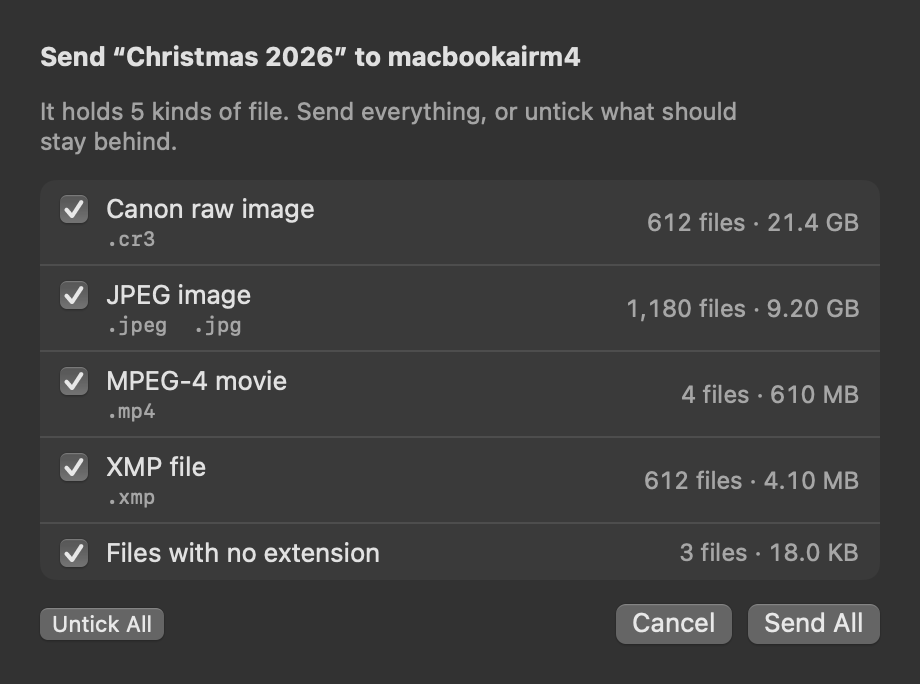
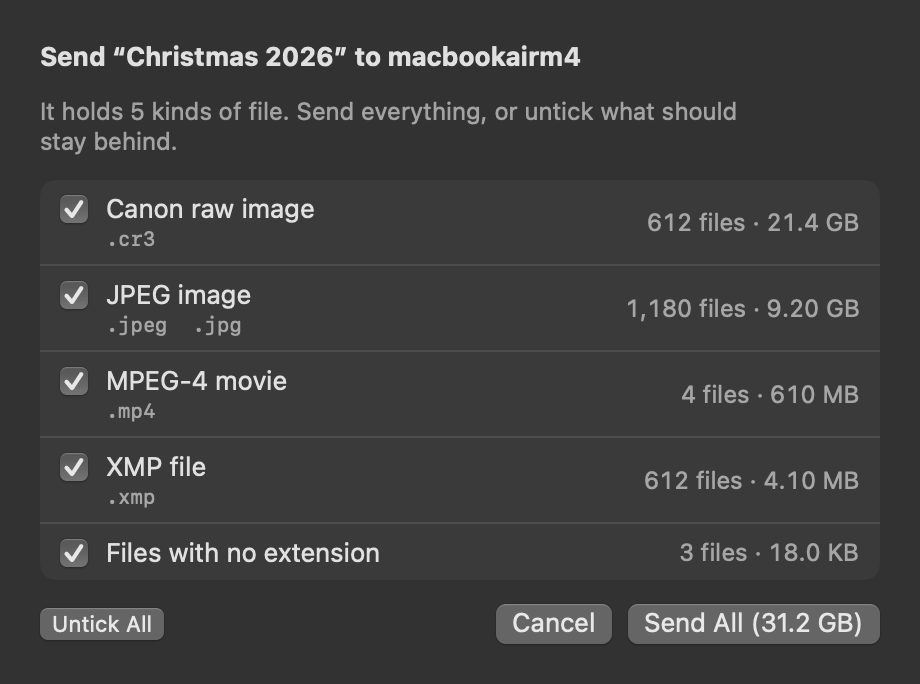
Settings get a window of their own; the Send button always says how much
Connections, Open at login, updates and the version move off the main window
into Settings (Cmd-comma, the app menu, the right-click menu). The kinds-of-file
sheet's button reads 'Send All (31.2 GB)' as well as 'Send 1,180 files (9.20 GB)'.

Changed region(s): [[0.5174, 0.8596, 0.9435, 0.9518]]

diff --git a/Sources/NimbusDrop/SettingsWindow.swift b/Sources/NimbusDrop/SettingsWindow.swift
@@ -1,0 +1,108 @@
+// Copyright (C) 2026 Niels Joubert
+// SPDX-License-Identifier: GPL-3.0-or-later
+import AppKit
+import NimbusDropCore
+import NimbusUpdater
+import SwiftUI
+
+/// The Settings window (⌘,): what is set once and left alone, kept off the main window. How
+/// many connections a send uses, Open at login, updates, and which version this is.
+struct SettingsView: View {
+    @ObservedObject var model: AppModel
+    let updater: Updater?
+    @State private var automatic: Bool
+
+    init(model: AppModel, updater: Updater?) {
+        self.model = model
+        self.updater = updater
+        _automatic = State(initialValue: updater?.automaticChecks ?? false)
+    }
+
+    var body: some View {
+        Form {
+            Section("Sending") {
+                Picker("Parallel connections", selection: Binding(get: { model.streams }, set: { model.setStreams($0) })) {
+                    ForEach(Settings.streamChoices, id: \.self) { n in
+                        Text(n == Settings.defaultStreams ? "\(n) (default)" : "\(n)").tag(n)
+                    }
+                }
+                Text("How many connections a drop you send is spread over. More helps on fast wired networks and with many small files. The receiving Mac takes however many the sender opens.")
+                    .font(.caption).foregroundStyle(.secondary)
+            }
+            Section("General") {
+                Toggle("Open at login", isOn: Binding(get: { model.openAtLogin }, set: { model.setOpenAtLogin($0) }))
+                    .disabled(Bundle.main.bundleIdentifier == nil)
+                Text("So this Mac is ready to receive after a restart. It starts in the menu bar, without opening the window.")
+                    .font(.caption).foregroundStyle(.secondary)
+            }
+            Section("Updates") {
+                if let updater, updater.canInstall {
+                    Toggle("Check for updates automatically", isOn: $automatic)
+                        .onChange(of: automatic) { _, on in updater.automaticChecks = on }
+                    Text("Once a day, asks github.com for the newest release and downloads it. Nothing else leaves your network.")
+                        .font(.caption).foregroundStyle(.secondary)
+                    Button("Check for Updates…") {
+                        Task { @MainActor in updater.presentCheckResult(await updater.checkNow()) }
+                    }
+                } else {
+                    Text(updater == nil ? "Updates are for the installed app; this is a development build."
+                                        : "Updates install only into /Applications, and this copy runs from somewhere else.")
+                        .font(.callout).foregroundStyle(.secondary)
+                }
+            }
+            Section("About") {
+                LabeledContent("Version", value: Self.appVersion)
+                LabeledContent("Protocol", value: protocolVersionText)
+                Text("Copies whose protocol begins with the same number can exchange drops.")
+                    .font(.caption).foregroundStyle(.secondary)
+            }
+        }
+        .formStyle(.grouped)
+        .frame(width: 440)
+        .fixedSize(horizontal: false, vertical: true)
+        .tint(Palette.send)
+    }
+
+    /// "0.1.0 (12)", or "development build".
+    static var appVersion: String {
+        let info = Bundle.main.infoDictionary
+        guard let short = info?["CFBundleShortVersionString"] as? String else { return "development build" }
+        return "\(short) (\(info?["CFBundleVersion"] as? String ?? "?"))"
+    }
+}
+
+@MainActor
+final class SettingsWindowController {
+    private let window: NSWindow
+
+    init(model: AppModel, updater: Updater?) {
+        window = NSWindow(contentViewController: NSHostingController(rootView: SettingsView(model: model, updater: updater)))
+        window.title = "Nimbus Drop Settings"
+        window.styleMask = [.titled, .closable]
+        window.isReleasedWhenClosed = false
+        window.center()
+    }
+
+    func show() {
+        NSApp.activate(ignoringOtherApps: true)
+        window.makeKeyAndOrderFront(nil)
+    }
+
+    /// The pane as a PNG, for `--dump-settings`.
+    static func dump(to path: String) -> Bool {
+        _ = NSApplication.shared
+        let model = AppModel(demoPeers: [], manual: [], rows: [])
+        let host = NSHostingView(rootView: SettingsView(model: model, updater: nil).background(Color(nsColor: .windowBackgroundColor)))
+        let window = NSWindow(contentRect: NSRect(origin: .zero, size: host.fittingSize), styleMask: [.titled], backing: .buffered, defer: false)
+        window.appearance = NSAppearance(named: .darkAqua)
+        window.contentView = host
+        host.layoutSubtreeIfNeeded()
+        RunLoop.main.run(until: Date().addingTimeInterval(0.3))
+        host.layoutSubtreeIfNeeded()
+        guard let rep = host.bitmapImageRepForCachingDisplay(in: host.bounds) else { return false }
+        host.cacheDisplay(in: host.bounds, to: rep)
+        do { try rep.representation(using: .png, properties: [:])?.write(to: URL(fileURLWithPath: path)) } catch { return false }
+        print("wrote \(path)")
+        return true
+    }
+}

diff --git a/Sources/NimbusDrop/MainWindow.swift b/Sources/NimbusDrop/MainWindow.swift
@@ -51,10 +51,19 @@ struct MainView: View {
                 // As tall as its drops, and no taller than about three of them.
                 .frame(height: min(max(dropsHeight, 40), 250))
             }
-            Divider()
-            footer
+            // The few settings live in the Settings window. All that shows here is an update
+            // that is downloaded and waiting.
+            if let version = model.updateReady {
+                Divider()
+                HStack {
+                    Text("Nimbus Drop \(version) is ready to install.").font(.callout)
+                    Spacer()
+                    Button("Install and Relaunch") { model.installUpdate?() }.controlSize(.small)
+                }
+                .padding(.horizontal, 20).padding(.vertical, 8)
+            }
         }
-        .frame(minWidth: 500, idealWidth: 560, minHeight: 380, idealHeight: 510)
+        .frame(minWidth: 500, idealWidth: 560, minHeight: 360, idealHeight: 480)
         .tint(Palette.send)
         .sheet(item: $model.kindQuestion) { KindSheet(question: $0, model: model).tint(Palette.send) }
     }
@@ -180,26 +189,6 @@ struct MainView: View {
             .background(RoundedRectangle(cornerRadius: 10).fill(.quaternary.opacity(0.4)))
         }
     }
-
-    private var footer: some View {
-        HStack(spacing: 14) {
-            Picker("Connections", selection: Binding(get: { model.streams }, set: { model.setStreams($0) })) {
-                ForEach(Settings.streamChoices, id: \.self) { Text("\($0)").tag($0) }
-            }
-            .fixedSize()
-            .help("How many parallel connections a drop you send is spread over. More helps on fast wired networks and with many small files.")
-            Toggle("Open at login", isOn: Binding(get: { model.openAtLogin }, set: { model.setOpenAtLogin($0) }))
-                .disabled(Bundle.main.bundleIdentifier == nil)
-            Spacer()
-            if let version = model.updateReady {
-                Button("Install Update \(version)") { model.installUpdate?() }.controlSize(.small)
-            }
-            Text(StatusBarController.versionString())
-                .font(.caption).foregroundStyle(.tertiary).textSelection(.enabled)
-        }
-        .controlSize(.small)
-        .padding(.horizontal, 20).padding(.vertical, 9)
-    }
 }
 
 private struct HeightKey: PreferenceKey {
@@ -321,7 +310,8 @@ private struct KindSheet: View {
                     .controlSize(.small)
                 Spacer()
                 Button("Cancel") { model.answer(question, kinds: nil, send: false) }.keyboardShortcut(.cancelAction)
-                Button(all ? "Send All" : "Send \(Format.files(files)) (\(Format.bytes(bytes)))") {
+                // Always with what is about to go: the size is the thing being decided.
+                Button(all ? "Send All (\(Format.bytes(bytes)))" : "Send \(Format.files(files)) (\(Format.bytes(bytes)))") {
                     model.answer(question, kinds: all ? nil : chosen, send: true)
                 }
                 .keyboardShortcut(.defaultAction).disabled(chosen.isEmpty)
@@ -448,9 +438,9 @@ final class MainWindowController: NSObject, NSWindowDelegate {
         window.styleMask = [.titled, .closable, .miniaturizable, .resizable]
         // Room for two rows of destinations with no drops showing; the person's own size and
         // place are remembered from then on.
-        window.setContentSize(NSSize(width: 560, height: 510))
+        window.setContentSize(NSSize(width: 560, height: 480))
         window.isReleasedWhenClosed = false
-        window.setFrameAutosaveName("NimbusDropMain3")
+        window.setFrameAutosaveName("NimbusDropMain4")
         if window.frame.origin == .zero { window.center() }
         window.delegate = self
     }

diff --git a/Sources/NimbusDrop/MainMenu.swift b/Sources/NimbusDrop/MainMenu.swift
@@ -6,7 +6,7 @@ import NimbusUpdater
 
 /// The app's own menu bar, shown while the window is open. An LSUIElement app has none until it
 /// builds one, and without it ⌘W, ⌘Q and ⌘C do nothing. It also holds what a menu bar app would
-/// otherwise keep in a dropdown: updates, Open at Login, the number of connections.
+/// otherwise keep in a dropdown: Settings, updates, Receive Drops.
 @MainActor
 final class MainMenu: NSObject, NSMenuDelegate {
     private let model: AppModel
@@ -65,28 +65,14 @@ final class MainMenu: NSObject, NSMenuDelegate {
         addUpdateItems()
         appMenu.addItem(.separator())
 
+        let settings = NSMenuItem(title: "Settings…", action: #selector(AppDelegate.showSettings), keyEquivalent: ",")
+        appMenu.addItem(settings)
+        appMenu.addItem(.separator())
+
         let receive = NSMenuItem(title: "Receive Drops", action: #selector(toggleReceiving), keyEquivalent: "r")
         receive.target = self
         receive.state = model.receiving ? .on : .off
         appMenu.addItem(receive)
-
-        let login = NSMenuItem(title: "Open at Login", action: #selector(toggleLoginItem), keyEquivalent: "")
-        login.target = self
-        login.state = LoginItem.isEnabled ? .on : .off
-        login.isEnabled = Bundle.main.bundleIdentifier != nil
-        appMenu.addItem(login)
-
-        let streams = NSMenuItem(title: "Parallel Connections", action: nil, keyEquivalent: "")
-        let sub = NSMenu()
-        for n in Settings.streamChoices {
-            let it = NSMenuItem(title: n == Settings.defaultStreams ? "\(n) (default)" : "\(n)", action: #selector(setStreams(_:)), keyEquivalent: "")
-            it.target = self
-            it.tag = n
-            it.state = Settings.streams == n ? .on : .off
-            sub.addItem(it)
-        }
-        streams.submenu = sub
-        appMenu.addItem(streams)
 
         appMenu.addItem(.separator())
         appMenu.addItem(withTitle: "Hide Nimbus Drop", action: #selector(NSApplication.hide(_:)), keyEquivalent: "h")
@@ -94,8 +80,6 @@ final class MainMenu: NSObject, NSMenuDelegate {
     }
 
     @objc private func toggleReceiving() { model.setReceiving(!model.receiving) }
-    @objc private func toggleLoginItem() { model.setOpenAtLogin(!LoginItem.isEnabled) }
-    @objc private func setStreams(_ sender: NSMenuItem) { model.setStreams(sender.tag) }
     @objc private func copyVersion() {
         NSPasteboard.general.clearContents()
         NSPasteboard.general.setString(StatusBarController.versionString(), forType: .string)

diff --git a/Sources/NimbusDrop/main.swift b/Sources/NimbusDrop/main.swift
@@ -17,6 +17,7 @@ import NimbusUpdater
 //   --dump-window PATH      render the window with made-up Macs and drops to PATH (+ -light, -empty), exit
 //   --crowd N               with --dump-window: N made-up destinations, at the default size and a wide one
 //   --dump-kinds PATH       render the "which kinds of file?" sheet to PATH, exit
+//   --dump-settings PATH    render the Settings window to PATH, exit
 //   --dump-offer PATH       render the "do you want this drop?" panel to PATH, exit
 //   --show-window           open the window at launch (the app otherwise starts in the menu bar only)
 //
@@ -89,6 +90,7 @@ while !args.isEmpty {
     case "--dump-bar": dumpBarPath = takeValue(a)
     case "--dump-window": dumpWindowPath = takeValue(a)
     case "--dump-kinds": let v = takeValue(a); exit(MainActor.assumeIsolated { MainWindowController.dumpKinds(to: v) ? 0 : 1 })
+    case "--dump-settings": let v = takeValue(a); exit(MainActor.assumeIsolated { SettingsWindowController.dump(to: v) ? 0 : 1 })
     case "--dump-offer": let v = takeValue(a); exit(MainActor.assumeIsolated { OfferPanel.dump(to: v) ? 0 : 1 })
     case "--crowd": dumpCrowd = Int(takeValue(a)) ?? 0
     case "--show-window": showWindowAtLaunch = true
@@ -146,6 +148,7 @@ final class AppDelegate: NSObject, NSApplicationDelegate {
     var updater: Updater?
     var window: MainWindowController?
     var menu: MainMenu!
+    var settings: SettingsWindowController?
 
     func applicationDidFinishLaunching(_ notification: Notification) {
         AppDelegate.shared = self
@@ -204,6 +207,12 @@ final class AppDelegate: NSObject, NSApplicationDelegate {
     @objc func showWindow() {
         if window == nil { window = MainWindowController(model: model) }
         window?.show()
+    }
+
+    /// The Settings window (⌘,), made on first use and kept.
+    @objc func showSettings() {
+        if settings == nil { settings = SettingsWindowController(model: model, updater: updater) }
+        settings?.show()
     }
 
     /// The menu bar item: open the window, or close it when it is already in front.

diff --git a/Sources/NimbusDrop/StatusBarController.swift b/Sources/NimbusDrop/StatusBarController.swift
@@ -41,11 +41,14 @@ final class StatusBarController: NSObject {
         receive.target = self
         receive.state = model.receiving ? .on : .off
         menu.addItem(receive)
+        let settings = NSMenuItem(title: "Settings…", action: #selector(openSettings), keyEquivalent: "")
+        settings.target = self
         let login = NSMenuItem(title: "Open at Login", action: #selector(toggleLogin), keyEquivalent: "")
         login.target = self
         login.state = LoginItem.isEnabled ? .on : .off
         if Bundle.main.bundleIdentifier == nil { login.action = nil }
         menu.addItem(login)
+        menu.addItem(settings)
         menu.addItem(.separator())
         menu.addItem(NSMenuItem(title: "Quit Nimbus Drop", action: #selector(NSApplication.terminate(_:)), keyEquivalent: ""))
         // A status item with a menu set shows it on every click; set it for this click only.
@@ -55,6 +58,7 @@ final class StatusBarController: NSObject {
     }
 
     @objc private func openWindow() { AppDelegate.shared?.showWindow() }
+    @objc private func openSettings() { AppDelegate.shared?.showSettings() }
     @objc private func toggleReceiving() { model.setReceiving(!model.receiving) }
     @objc private func toggleLogin() { model.setOpenAtLogin(!LoginItem.isEnabled) }
 

diff --git a/README.md b/README.md
@@ -96,10 +96,10 @@ again, save to the same folder, and only what is missing is sent.
 
 **Versions.** Every copy announces its app version and its protocol version. A Mac that speaks a
 different protocol major shows as *Needs an update* and cannot be sent to; an offer from one is
-declined with both versions named. The bottom of the window shows this copy's.
+declined with both versions named. Settings shows this copy's.
 
-At the bottom of the window: the number of parallel connections, *Open at login*, and the
-version. The app menu has the same, plus updates.
+**Settings** (⌘, or right-click the menu bar icon): how many parallel connections a send uses,
+*Open at login*, updates, and which version and protocol this copy is.
 
 ## How fast
 
@@ -122,7 +122,7 @@ to about 3 GB/s before the Macs themselves are the limit.
   47823 and takes any free one otherwise.
 - **A drop:** one control connection carries the offer, the answer, the manifest (every file,
   folder and symlink with size, time and mode) and the receiver's note of what it already has.
-  Then 8 parallel TCP connections (*Connections* at the bottom of the window: 1 to 16) carry the
+  Then 8 parallel TCP connections (*Parallel connections* in Settings: 1 to 16) carry the
   data in 4 MiB chunks. Every connection takes the next unsent chunk from one shared list, so a
   single huge file is spread across all of them and so is a folder of small ones.
 - **Checked end to end:** every chunk carries a CRC-32 over its header and its bytes, verified
@@ -157,7 +157,7 @@ Both Macs need Nimbus Drop running, Apple silicon and macOS 15 or later, on the 
 The first launch asks for **Local Network** access; allow it, or the Macs cannot see each other
 (System Settings › Privacy & Security › Local Network to change it later). Launched from
 `/Applications` it adds itself to Login Items once, so the Mac is ready to receive after a
-restart; turn that off at the bottom of the window (*Open at login*) or in System Settings.
+restart; turn that off in Settings (*Open at login*) or in System Settings.
 
 ## From the command line
 

diff --git a/CLAUDE.md b/CLAUDE.md
@@ -90,11 +90,17 @@ Sources/NimbusDrop/         the app
                             --check-update / --preflight
   AppModel.swift            destinations (found + added by address), transfer rows, the receiving
                             switch, the save prompt, notifications, the sleep hold
-  StatusBarController.swift the status item: no menu, a click opens (or closes) the window; --dump-bar
-  MainMenu.swift            the app's own menu bar while the window is open: version, updates,
-                            Receive Drops, Open at Login, Parallel Connections
-  MainWindow.swift          the window (SwiftUI in an NSWindow): header, destinations and Add by
-                            Address, drops, the settings footer; --dump-window
+  StatusBarController.swift the status item: a click opens (or closes) the window, a right-click
+                            brings a short menu; --dump-bar
+  MainMenu.swift            the app's own menu bar while the window is open: version, Settings,
+                            updates, Receive Drops
+  MainWindow.swift          the window (SwiftUI in an NSWindow): This computer, Destinations and
+                            Add by Address, the drops, the kinds-of-file sheet; --dump-window,
+                            --dump-kinds
+  SettingsWindow.swift      Settings (⌘,): parallel connections, Open at login, updates, the
+                            version and protocol. Nothing of the kind is on the main window.
+  OfferPanel.swift          the Accept / Decline panel for an incoming drop; --dump-offer
+  Palette.swift             the Nimbus colours: icon blue out, icon green in, coral, amber
   Settings.swift            UserDefaults: deviceID, receiving, streams, manualDestinations
   LoginItem.swift, AppIcon.swift, DMGBackground.swift, Updates.swift   as in the siblings
 Tests/NimbusDropCoreTests/  20 tests: whole drops, decline, collisions, resume, cancel, a hostile
